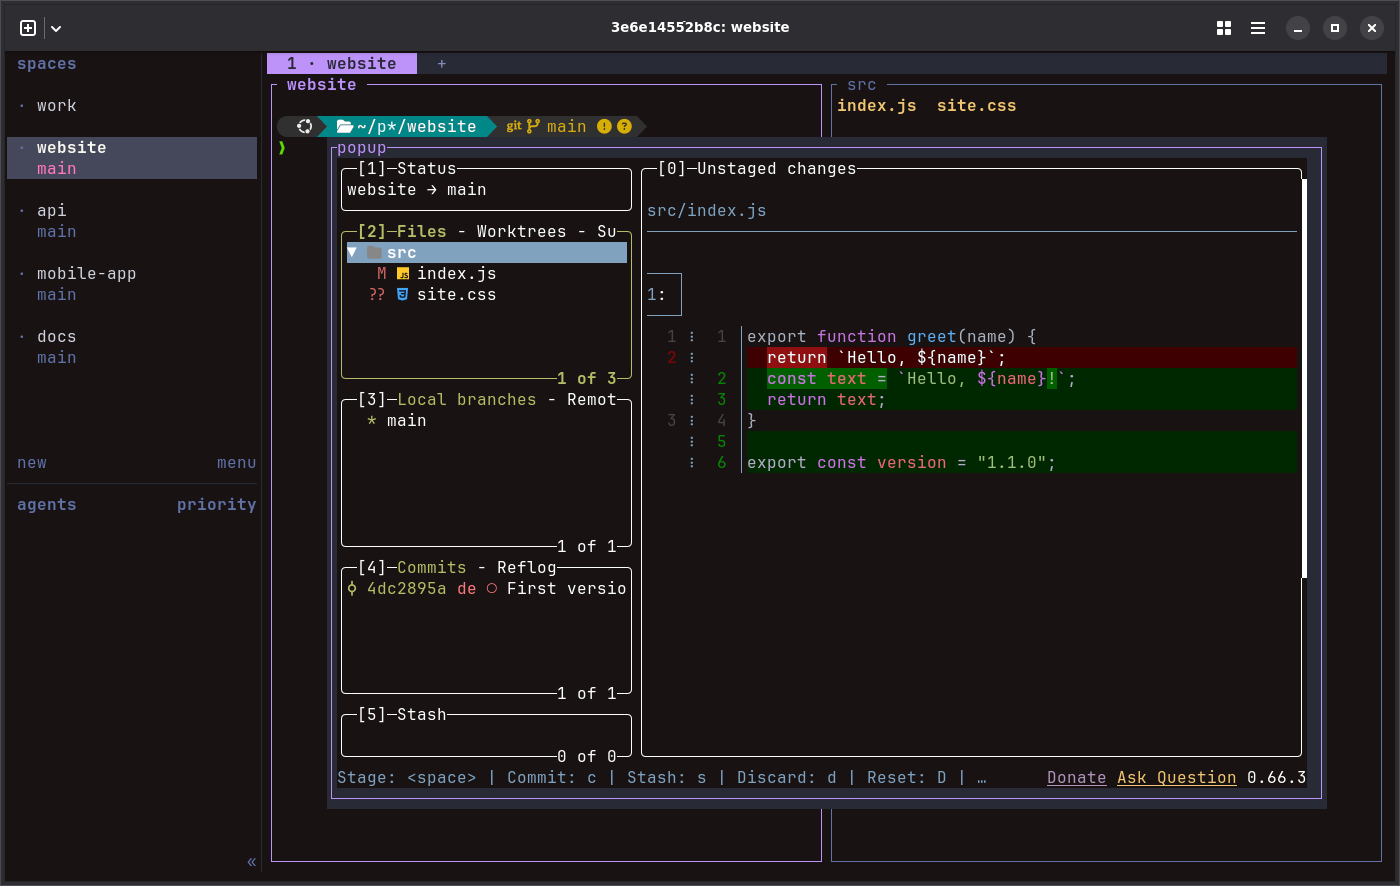
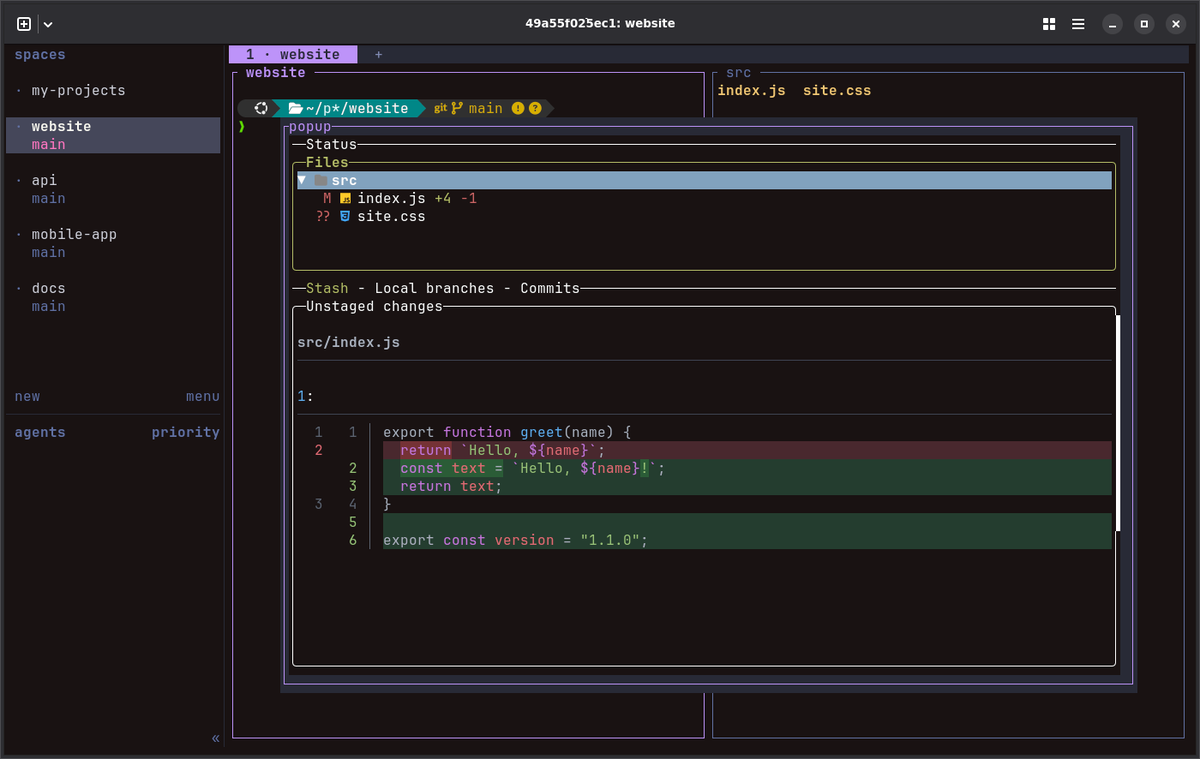
Use LazyVim's own nvim . behavior, and record the media again
- Remove autocmds.lua. LazyVim already opens the file tree for nvim .
  with the cursor in it, and the extra code stopped the file preview.
- Remove the Rust extra and its pins. It installs tools that most
  people do not need at the first start.
- The demo list is my-projects, in the scripts and in the media.
- shot finds the Ghostty window again if Ghostty replaced it, and a
  screenshot that fails makes the test fail.
- New Neovim, lazygit, template, and video media.
- The docs skill says how to take the Neovim and lazygit screenshots.

diff --git a/CHANGELOG.md b/CHANGELOG.md
@@ -12,7 +12,7 @@ All notable changes to herdspace are in this file. The format follows [Keep a Ch
 - The shell extras are in their own file, `~/.config/herdspace/extras.zsh`: `ff`, `fif`, the completion of `hopen`, the `fzf` keys, `zoxide`, `eza`, and `bat`.
 - lazygit: a clearer layout with less noise, and the count of changed lines of each file. A richer delta view has line numbers, and a second view shows the changed words. A narrow pane uses portrait mode, and the branches of coding agents have their own colors.
 - Neovim: `nvim .` opens the file tree and an empty editor. Folder icons have colors by folder name, and the arrow keys preview a file as `j` and `k` do. The editor has the background of the terminal.
-- Neovim: a question before quitting with unsaved changes, and wrapped lines with their indent. A Python project uses its own `.venv`, and Rust has a language extra. A failed download of `lazy.nvim` gives a clear message, and the start is faster.
+- Neovim: a question before quitting with unsaved changes, and wrapped lines with their indent. A Python project uses its own `.venv`. A failed download of `lazy.nvim` gives a clear message, and the start is faster.
 
 ### Changed
 

diff --git a/.agents/skills/herdspace-docs/SKILL.md b/.agents/skills/herdspace-docs/SKILL.md
@@ -67,7 +67,7 @@ For a wording change that the maintainer asks for, show a preview of the new tex
 
 ## Screenshots and videos
 
-`tests/capture-media.sh` records the images and videos in `docs/media` with real Ghostty and real key presses. The files go to `tests/.work/media`. Before you copy a file to `docs/media`, look at it. The GIF files play 3 times faster than the recording, and `SPEED` changes it.
+`tests/capture-media.sh` records the images and videos in `docs/media` with real Ghostty and real key presses. The screenshots of Neovim and lazygit come from `tests/run-client-linux.sh`, in `tests/.work/shots`. Run it with `FULL=1`, so that the language tools are installed first. Without them, Neovim installs them at the first start, and its notifications cover the editor in the screenshot. The files go to `tests/.work/media`. Before you copy a file to `docs/media`, look at it. The GIF files play 3 times faster than the recording, and `SPEED` changes it.
 
 ## Make sure that it works
 

diff --git a/docs/cheat-sheet.md b/docs/cheat-sheet.md
@@ -289,7 +289,7 @@ Run `nvim .` in a project. Neovim opens the file tree on the left and an empty e
 | Quit | `:q`. With unsaved changes, Neovim asks first. |
 | Update the plugins | `:Lazy update` |
 
-In a Python project, Neovim uses the `.venv` or `venv` folder of the project, so that the language server finds its packages. Rust has a language extra too.
+In a Python project, Neovim uses the `.venv` or `venv` folder of the project, so that the language server finds its packages.
 
 ## lazygit
 
